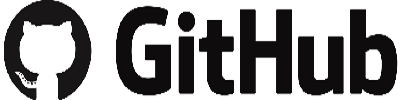
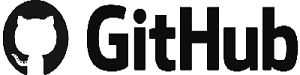
updated images to fit a mobile screen

diff --git a/styles/main.css b/styles/main.css
@@ -117,7 +117,7 @@ nav a:hover, footer a:hover, .dropBtn:hover, .dropdown-content p:hover {
 }
 
 .links a {
-    margin: 50px;
+    width: 50%;
     text-decoration: none;
     display: inline-block;
 }
@@ -173,6 +173,13 @@ nav a:hover, footer a:hover, .dropBtn:hover, .dropdown-content p:hover {
     border: 1px solid black
 }
 
+
+/* On screens that are 992px wide or less, go from four columns to two columns */
+@media screen and (max-width: 1000px) {
+    .column {
+        width: 1000%;
+    }
+}
 
 @font-face {
     font-family: muthur;
